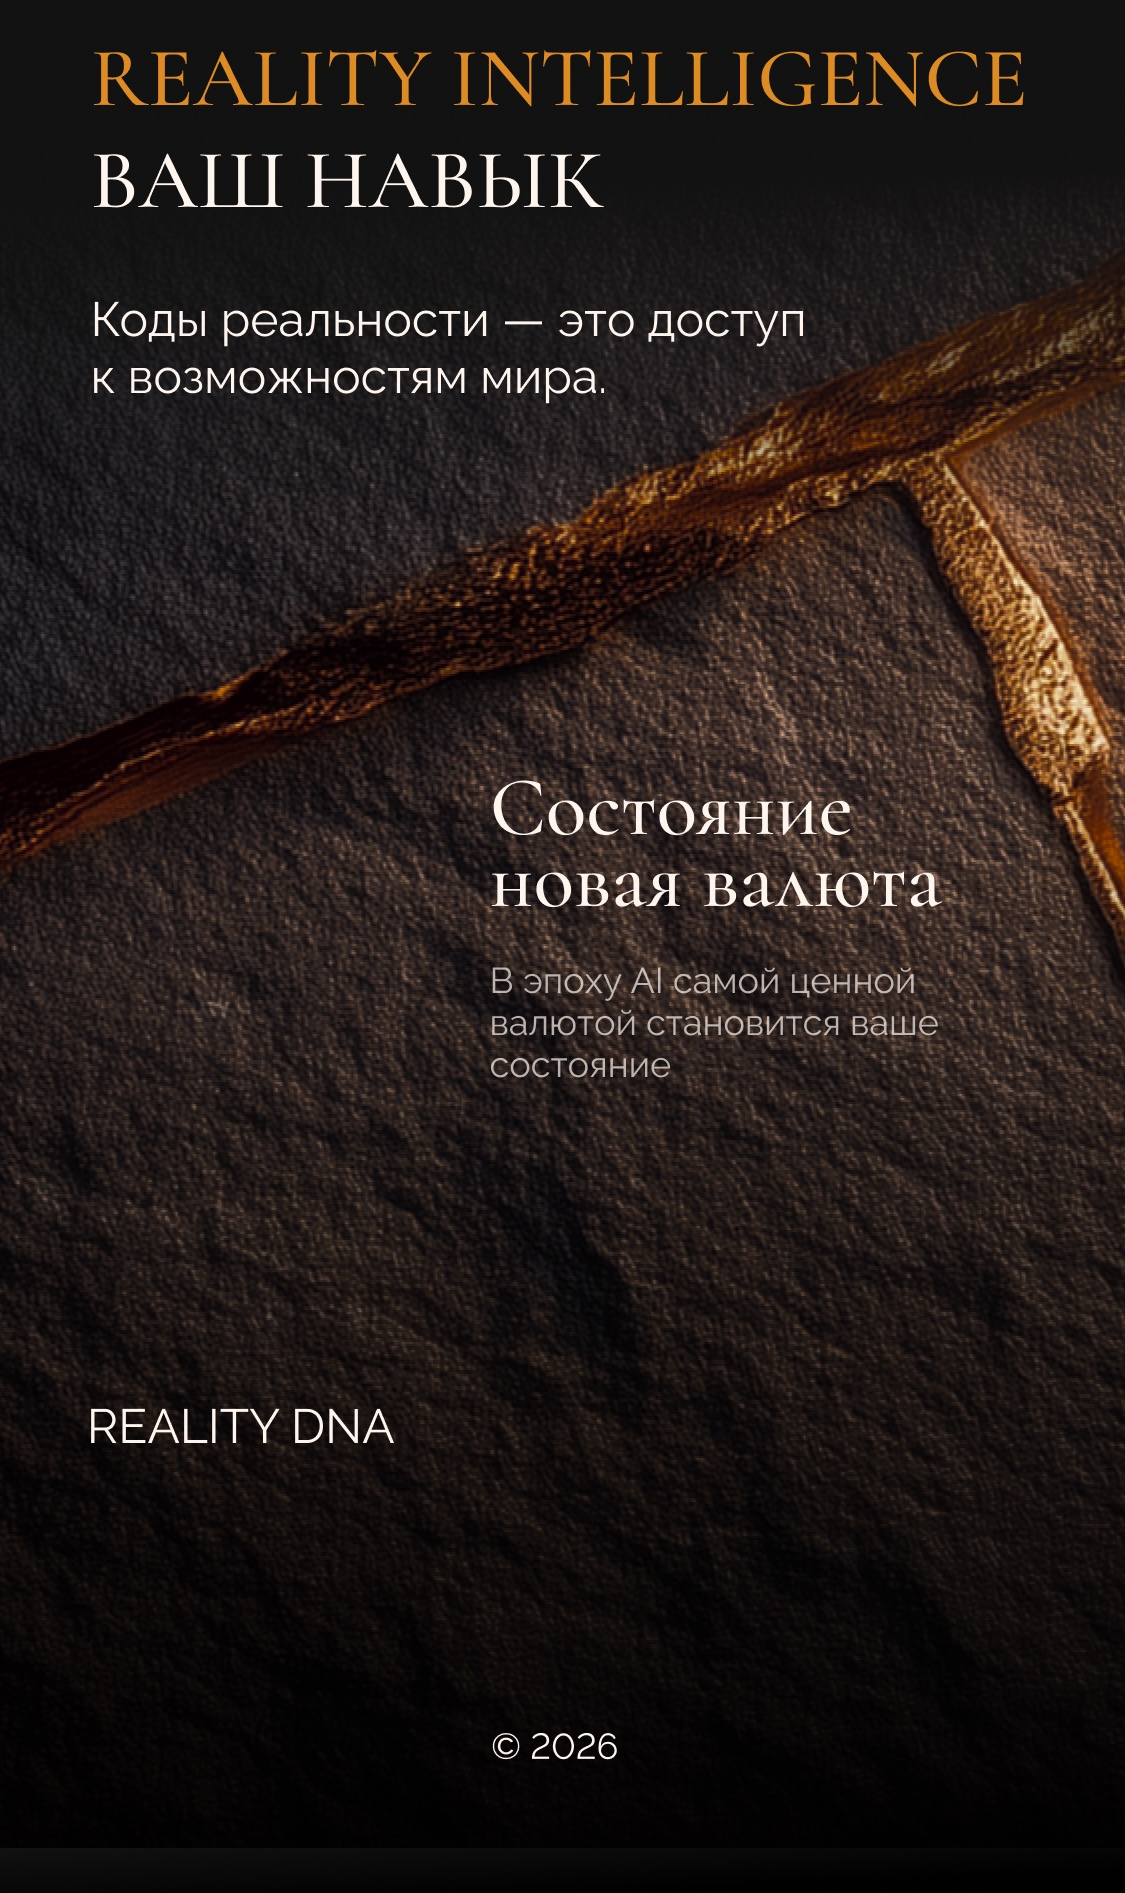
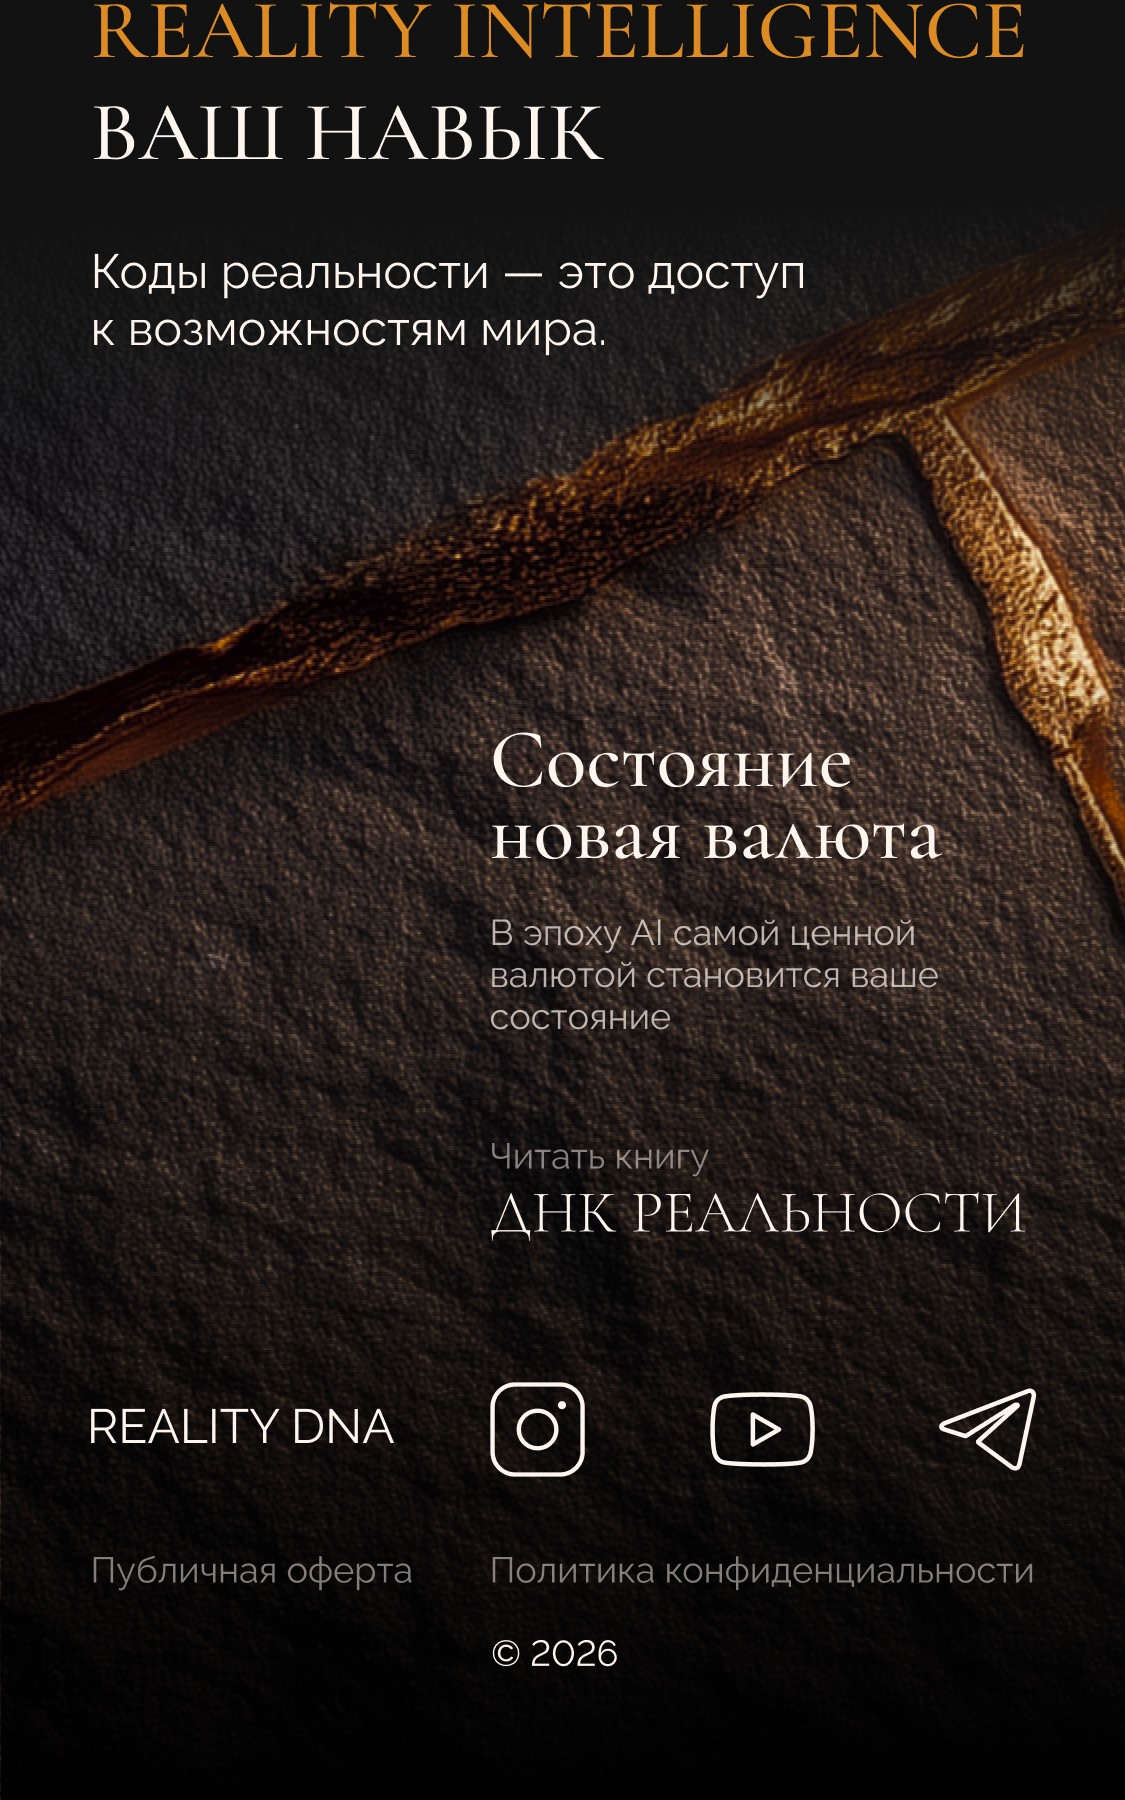
Mobile UI prep for presentation: privacy page, footer, consultation buttons, s6/s11
- New /privacy page with RU/UA/EN backgrounds (compressed)
- Footer: split legal block — /offer and /privacy; Next <Link> + bigger tap zones for mobile (60px)
- Consultation mobile c2.jpg replaced 1:1 from reference, 6 cons-hit zones repositioned (15.57/17.66/49.25/51.34/81.26/83.34%) linking to t.me/medvedieva_anna
- Added Оплатить/Техподдержка PNG buttons (RU/UA/EN)
- Mobile s12.jpg replaced 1:1 from reference, unified single-block footer; hidden duplicate PNG overlays
- S6 'Метод' button: warm glass fill + contrast boost instead of dark patch
- S11 'Перейти' button: rotating conic-gradient border animation (3.2s; 1.8s on hover) with reduced-motion fallback

diff --git a/src/app/globals.css b/src/app/globals.css
@@ -196,6 +196,13 @@ main {
   box-shadow: none;
   margin: 0;
   padding: 0;
+  /* Header is fixed 72px desktop / 56px mobile — offset anchor scrolls so
+     the top of baked-in JPG text (S3 kicker, S4/S8 titles) isn't hidden
+     behind the header when menu links scroll to a section. */
+  scroll-margin-top: 72px;
+}
+@media (max-width: 768px) {
+  .section { scroll-margin-top: 56px; }
 }
 
 /* Desktop / Mobile image switching */
@@ -396,6 +403,93 @@ img.desktop-only { display: block !important; }
   animation-play-state: paused;
 }
 
+/* S6 "Метод" button — PNG outline is thin + low-contrast on the bright
+   bokeh background. Tint the fill with warm cream glass (matches site
+   palette, NOT a dark blob) so the pill lifts off the photo, and push
+   the outline/text darker via a filter so "Метод" reads clearly. */
+.s6-btn-overlay {
+  background: rgba(255, 245, 225, 0.42);
+  -webkit-backdrop-filter: blur(6px) saturate(1.1);
+          backdrop-filter: blur(6px) saturate(1.1);
+  box-shadow:
+    inset 0 0 0 1px rgba(100, 60, 20, 0.22),
+    0 3px 14px rgba(100, 60, 20, 0.22);
+}
+.s6-btn-overlay > img {
+  filter:
+    contrast(2.0) saturate(1.25)
+    drop-shadow(0 1px 1px rgba(50, 25, 5, 0.45));
+}
+@keyframes s6MethodBreath {
+  0%, 100% {
+    box-shadow:
+      inset 0 0 0 1px rgba(100, 60, 20, 0.22),
+      0 3px 14px rgba(100, 60, 20, 0.22),
+      0 0 0      rgba(var(--glow-warm), 0);
+  }
+  50% {
+    box-shadow:
+      inset 0 0 0 1px rgba(100, 60, 20, 0.32),
+      0 3px 18px rgba(100, 60, 20, 0.30),
+      0 0 24px   rgba(var(--glow-warm), 0.55);
+  }
+}
+.s6-btn-overlay {
+  animation: s6MethodBreath 4.5s ease-in-out infinite;
+}
+.s6-btn-overlay:hover {
+  animation-play-state: paused;
+}
+
+/* S11 "Перейти" buttons — rotating conic sweep traces the border ring.
+   The button already has overflow:hidden + border-radius, so the effect
+   lives on ::before inside the bounds and is masked to show only as a
+   thin ring along the edge. */
+@property --s11-angle {
+  syntax: '<angle>';
+  initial-value: 0deg;
+  inherits: false;
+}
+
+@keyframes s11BorderRun {
+  to { --s11-angle: 360deg; }
+}
+
+/* Fallback for browsers without @property — rotate the whole pseudo. */
+@keyframes s11BorderRunFallback {
+  to { transform: rotate(360deg); }
+}
+
+.s11-btn-overlay::before {
+  content: '';
+  position: absolute;
+  inset: 0;
+  border-radius: inherit;
+  padding: 1.5px;
+  background: conic-gradient(
+    from var(--s11-angle, 0deg),
+    transparent 0deg,
+    transparent 260deg,
+    rgba(var(--glow-warm), 0.95) 315deg,
+    transparent 360deg
+  );
+  -webkit-mask:
+    linear-gradient(#000 0 0) content-box,
+    linear-gradient(#000 0 0);
+          mask:
+    linear-gradient(#000 0 0) content-box,
+    linear-gradient(#000 0 0);
+  -webkit-mask-composite: xor;
+          mask-composite: exclude;
+  animation: s11BorderRun 3.2s linear infinite;
+  pointer-events: none;
+  z-index: 1;
+}
+
+.s11-btn-overlay:hover::before {
+  animation-duration: 1.8s;
+}
+
 /* Scroll-reveal for below-the-fold buttons — CSS-only via view-timeline.
    Modern browsers (Chrome 115+, Edge 115+) play a gentle fade+rise as each
    button enters the viewport. Safari/Firefox get instant display (graceful
@@ -430,8 +524,20 @@ img.desktop-only { display: block !important; }
 
 @media (prefers-reduced-motion: reduce) {
   .s1-btn-overlay,
+  .s6-btn-overlay,
   .s7-btn-consult {
     animation: none;
+  }
+  .s6-btn-overlay {
+    filter: brightness(1.18) contrast(1.06);
+  }
+  .s11-btn-overlay::before {
+    animation: none;
+    background: conic-gradient(
+      transparent 260deg,
+      rgba(var(--glow-warm), 0.6) 315deg,
+      transparent 360deg
+    );
   }
   .s1-btn-overlay,
   .s6-btn-overlay,
@@ -607,6 +713,8 @@ img.desktop-only { display: block !important; }
   cursor: pointer;
   z-index: 11;
   transition: background 0.5s var(--ease-luxe);
+  -webkit-tap-highlight-color: rgba(var(--glow-warm), 0.22);
+  touch-action: manipulation;
 }
 
 /* Legal links — no animation, just a gentle brightness lift on hover. */
@@ -633,21 +741,44 @@ img.desktop-only { display: block !important; }
   .s7-btn-about { bottom: 10.5%; }
   .s7-btn-consult { bottom: 3.8%; }
 
-  /* S11 mobile | ref: 11.png (375×1239) — stacked full-width */
+  /* S11 mobile | ref: 11.png (375×1239) — stacked full-width.
+     Card text in the JPG ends at 30.6% / 51.9% / 75.1% from top;
+     buttons sit in the dark gap just below each card. */
   .s11-btn-overlay { left: 6.7% !important; width: 86.7% !important; }
-  .s11-btn-1 { bottom: 67.6%; }
-  .s11-btn-2 { bottom: 35.4%; }
-  .s11-btn-3 { bottom: 5.2%; }
+  .s11-btn-1 { bottom: 64.5%; }
+  .s11-btn-2 { bottom: 43.5%; }
+  .s11-btn-3 { bottom: 20%; }
 
-  /* S12 mobile | ref: подвал моб версия референс.png (1125×1800 aka 375×600).
-     Artwork (book card, social icons, legal links) is baked into the JPG
-     background. These blocks are invisible click zones aligned to that art. */
-  /* Mobile footer: clean JPG background + separate transparent PNG buttons
-     overlaid on top. Positions measured from `главная страница подвал моб фон.png`
-     (1125×1893). PNG dims drive height; aspect-ratio removed. */
-  .s12-book-overlay { left: 12%; width: 54%; bottom: 27%; aspect-ratio: auto; }
-  .s12-social-block { left: 12%; width: 50%; bottom: 18%; aspect-ratio: auto; }
-  .s12-legal-block { left: 3%; width: 84%; bottom: 9%; aspect-ratio: auto; }
+  /* S12 mobile | ref: подвал моб версия референс.png (1125×1800).
+     Footer background IS the reference image — book card, social icons,
+     legal links, and © line are all BAKED into s12.jpg. Overlay PNGs on
+     mobile would double-draw the text, so the <img> children are hidden
+     below; the anchors remain as invisible click zones. */
+  .s12-footer { aspect-ratio: 1125 / 1800 !important; }
+
+  .s12-book-overlay > img.mobile-only,
+  .s12-social-block > img,
+  .s12-legal-block > img.mobile-only {
+    display: none !important;
+  }
+  /* Icons are drawn in the JPG — clear the CSS background on each hit zone
+     so we don't paint them a second time in the overlay. Keep the element
+     for clicks / hover glow. */
+  .s12-social-hit {
+    background-image: none !important;
+    animation: none !important;
+  }
+
+  /* Book card ("Читать книгу / ДНК РЕАЛЬНОСТИ") — center-right band at
+     ~61-68% from top of the 1800-tall JPG. */
+  .s12-book-overlay  { left: 40%; width: 50%; top: 61%; bottom: auto; height: 7%; aspect-ratio: auto; }
+  /* Social icons — right half of the REALITY DNA / icons row (~69-74%). */
+  .s12-social-block  { left: 45%; width: 50%; top: 69%; bottom: auto; height: 5.5%; }
+  /* Legal links — full-width row at ~78-81%. */
+  /* Legal hit zone is ~20px tall at the baked text row — too small for a
+     reliable mobile tap. Expand vertically around the text so taps just
+     above or below the text still register. */
+  .s12-legal-block   { left: 0%;  width: 100%; top: 74.5%; bottom: auto; height: 10%; aspect-ratio: auto; }
 }
 
 .section-bg-img {
@@ -2337,7 +2468,7 @@ img.desktop-only { display: block !important; }
   #s9  { aspect-ratio: 375 / 994 !important; }
   #s10 { aspect-ratio: 375 / 788 !important; }
   #s11 { aspect-ratio: 375 / 1239 !important; }
-  .s12-footer { aspect-ratio: 1125 / 1893 !important; }
+  .s12-footer { aspect-ratio: 1125 / 1800 !important; }
 
   /* === HEADER === */
   .site-header {
@@ -2876,8 +3007,10 @@ main[data-lang="ua"] .cons-support { top: 51.09%; }
     height: auto !important;
   }
 
-  /* === Mobile — 375 × 2105…2184 per language ===
-     Button rect 261×46. Horizontal same across langs; verticals per-lang. */
+  /* === Mobile — 375 × 2209 per language ===
+     Button rect 261×46. Pills are DRAWN inside c2 mobile JPG now (the
+     exported 1125×6627 reference), so .cons-hit stays fully transparent —
+     just a click zone aligned to each drawn pill. */
   .cons-hit   { height: 2.15%; }
   .cons-col-1,
   .cons-col-2,
@@ -2886,27 +3019,27 @@ main[data-lang="ua"] .cons-support { top: 51.09%; }
     width: 69.6% !important;
   }
 
-  /* RU mobile — 375×2184 reference */
-  main[data-lang="ru"] .cons-col-1.cons-pay     { top: 14.88%; }
-  main[data-lang="ru"] .cons-col-1.cons-support { top: 17.58%; }
-  main[data-lang="ru"] .cons-col-2.cons-pay     { top: 48.44%; }
-  main[data-lang="ru"] .cons-col-2.cons-support { top: 51.14%; }
-  main[data-lang="ru"] .cons-col-3.cons-pay     { top: 79.81%; }
-  main[data-lang="ru"] .cons-col-3.cons-support { top: 82.51%; }
+  /* Measured from `индивидуальная консультация моб версия референс.png`
+     (top stroke of each pill / 6627 img height). Same asset is used for
+     all three languages for now; revisit when UA/EN references land. */
+  main[data-lang="ru"] .cons-col-1.cons-pay     { top: 15.57%; }
+  main[data-lang="ru"] .cons-col-1.cons-support { top: 17.66%; }
+  main[data-lang="ru"] .cons-col-2.cons-pay     { top: 49.25%; }
+  main[data-lang="ru"] .cons-col-2.cons-support { top: 51.34%; }
+  main[data-lang="ru"] .cons-col-3.cons-pay     { top: 81.26%; }
+  main[data-lang="ru"] .cons-col-3.cons-support { top: 83.34%; }
 
-  /* EN mobile — 375×2105 reference */
-  main[data-lang="en"] .cons-col-1.cons-pay     { top: 13.82%; }
-  main[data-lang="en"] .cons-col-1.cons-support { top: 16.63%; }
-  main[data-lang="en"] .cons-col-2.cons-pay     { top: 50.26%; }
-  main[data-lang="en"] .cons-col-2.cons-support { top: 53.06%; }
-  main[data-lang="en"] .cons-col-3.cons-pay     { top: 81.33%; }
-  main[data-lang="en"] .cons-col-3.cons-support { top: 84.13%; }
+  main[data-lang="en"] .cons-col-1.cons-pay     { top: 15.57%; }
+  main[data-lang="en"] .cons-col-1.cons-support { top: 17.66%; }
+  main[data-lang="en"] .cons-col-2.cons-pay     { top: 49.25%; }
+  main[data-lang="en"] .cons-col-2.cons-support { top: 51.34%; }
+  main[data-lang="en"] .cons-col-3.cons-pay     { top: 81.26%; }
+  main[data-lang="en"] .cons-col-3.cons-support { top: 83.34%; }
 
-  /* UA mobile — 375×2153 reference */
-  main[data-lang="ua"] .cons-col-1.cons-pay     { top: 15.09%; }
-  main[data-lang="ua"] .cons-col-1.cons-support { top: 17.84%; }
-  main[data-lang="ua"] .cons-col-2.cons-pay     { top: 49.14%; }
-  main[data-lang="ua"] .cons-col-2.cons-support { top: 51.88%; }
-  main[data-lang="ua"] .cons-col-3.cons-pay     { top: 81.10%; }
-  main[data-lang="ua"] .cons-col-3.cons-support { top: 83.84%; }
+  main[data-lang="ua"] .cons-col-1.cons-pay     { top: 15.57%; }
+  main[data-lang="ua"] .cons-col-1.cons-support { top: 17.66%; }
+  main[data-lang="ua"] .cons-col-2.cons-pay     { top: 49.25%; }
+  main[data-lang="ua"] .cons-col-2.cons-support { top: 51.34%; }
+  main[data-lang="ua"] .cons-col-3.cons-pay     { top: 81.26%; }
+  main[data-lang="ua"] .cons-col-3.cons-support { top: 83.34%; }
 }

diff --git a/src/app/consultation/page.tsx b/src/app/consultation/page.tsx
@@ -3,7 +3,7 @@ import Image from "next/image";
 import { useTranslation } from '@/components/LanguageProvider';
 import Footer from '@/components/Footer';
 
-const ASSET_VERSION = '20260418-hq3x';
+const ASSET_VERSION = '20260420-c2-ref';
 const v = (p: string) => `${p}?v=${ASSET_VERSION}`;
 
 function consultPath(type: 'desk' | 'mob', section: number, lang: string): string {
@@ -63,14 +63,14 @@ export default function ConsultationPage() {
           {n === 2 && (
             <>
               {/* Card 1 — Индивидуальная */}
-              <a href="#" aria-label={tr('consult_pay')}     className="cons-hit cons-pay cons-col-1" />
-              <a href="#" aria-label={tr('consult_support')} className="cons-hit cons-support cons-col-1" />
+              <a href="https://t.me/medvedieva_anna" target="_blank" rel="noopener noreferrer" aria-label={tr('consult_pay')}     className="cons-hit cons-pay cons-col-1" />
+              <a href="https://t.me/medvedieva_anna" target="_blank" rel="noopener noreferrer" aria-label={tr('consult_support')} className="cons-hit cons-support cons-col-1" />
               {/* Card 2 — Срочная */}
-              <a href="#" aria-label={tr('consult_pay')}     className="cons-hit cons-pay cons-col-2" />
-              <a href="#" aria-label={tr('consult_support')} className="cons-hit cons-support cons-col-2" />
+              <a href="https://t.me/medvedieva_anna" target="_blank" rel="noopener noreferrer" aria-label={tr('consult_pay')}     className="cons-hit cons-pay cons-col-2" />
+              <a href="https://t.me/medvedieva_anna" target="_blank" rel="noopener noreferrer" aria-label={tr('consult_support')} className="cons-hit cons-support cons-col-2" />
               {/* Card 3 — Дистанционная */}
-              <a href="#" aria-label={tr('consult_pay')}     className="cons-hit cons-pay cons-col-3" />
-              <a href="#" aria-label={tr('consult_support')} className="cons-hit cons-support cons-col-3" />
+              <a href="https://t.me/medvedieva_anna" target="_blank" rel="noopener noreferrer" aria-label={tr('consult_pay')}     className="cons-hit cons-pay cons-col-3" />
+              <a href="https://t.me/medvedieva_anna" target="_blank" rel="noopener noreferrer" aria-label={tr('consult_support')} className="cons-hit cons-support cons-col-3" />
             </>
           )}
         </section>

diff --git a/src/app/privacy/page.tsx b/src/app/privacy/page.tsx
@@ -1,0 +1,49 @@
+'use client';
+import Image from "next/image";
+import { useTranslation } from '@/components/LanguageProvider';
+import Footer from '@/components/Footer';
+
+const ASSET_VERSION = '20260420-privacy';
+const v = (p: string) => `${p}?v=${ASSET_VERSION}`;
+
+function privacyPath(lang: string): string {
+  const langDir = lang === 'ru' ? '' : `/${lang}`;
+  return v(`/images/backgrounds/privacy${langDir}/privacy.jpg`);
+}
+
+export default function PrivacyPage() {
+  const { lang } = useTranslation();
+
+  return (
+    <main>
+      <section
+        className="consult-section"
+        style={{ aspectRatio: '4320 / 4185', background: '#f5f0eb' }}
+      >
+        <div className="s10-bg desktop-only">
+          <Image
+            src={privacyPath(lang)}
+            alt=""
+            fill
+            sizes="100vw"
+            style={{ objectFit: 'cover', objectPosition: 'center top' }}
+            quality={90}
+            priority
+          />
+        </div>
+        <div className="s10-bg mobile-only">
+          <Image
+            src={privacyPath(lang)}
+            alt=""
+            fill
+            sizes="100vw"
+            style={{ objectFit: 'cover', objectPosition: 'center top' }}
+            quality={90}
+            priority
+          />
+        </div>
+      </section>
+      <Footer />
+    </main>
+  );
+}

diff --git a/src/components/Footer.tsx b/src/components/Footer.tsx
@@ -1,5 +1,6 @@
 'use client';
 import Image from "next/image";
+import Link from "next/link";
 import { useTranslation } from '@/components/LanguageProvider';
 import { bgDesktop, bgMobile, btnDesktop, btnMobile } from '@/lib/imagePaths';
 import SeoText from '@/components/SeoText';
@@ -31,8 +32,8 @@ export default function Footer() {
       <div className="s12-legal-block">
         <img className="desktop-only" src={btnDesktop(12, lang, 'oferta')} alt="" draggable={false} />
         <img className="mobile-only" src={btnMobile(12, lang, 'oferta')} alt="" draggable={false} />
-        <a href="/offer" className="s12-legal-hit s12-legal-left" aria-label="Публичная оферта" />
-        <a href="/offer" className="s12-legal-hit s12-legal-right" aria-label="Политика конфиденциальности" />
+        <Link href="/offer"   className="s12-legal-hit s12-legal-left"  aria-label="Публичная оферта"><span className="sr-only">Публичная оферта</span></Link>
+        <Link href="/privacy" className="s12-legal-hit s12-legal-right" aria-label="Политика конфиденциальности"><span className="sr-only">Политика конфиденциальности</span></Link>
       </div>
     </footer>
   );

diff --git a/src/lib/imagePaths.ts b/src/lib/imagePaths.ts
@@ -2,7 +2,7 @@ import type { Lang } from './translations';
 
 // Bump this when replacing image assets to force browser cache refresh.
 // Format: YYYYMMDD-sequence
-const ASSET_VERSION = '20260419-s3-hq';
+const ASSET_VERSION = '20260420-footer-ref';
 const v = (p: string) => `${p}?v=${ASSET_VERSION}`;
 
 // Fallback order: use dedicated folder if exists, else fall back to RU (default).
